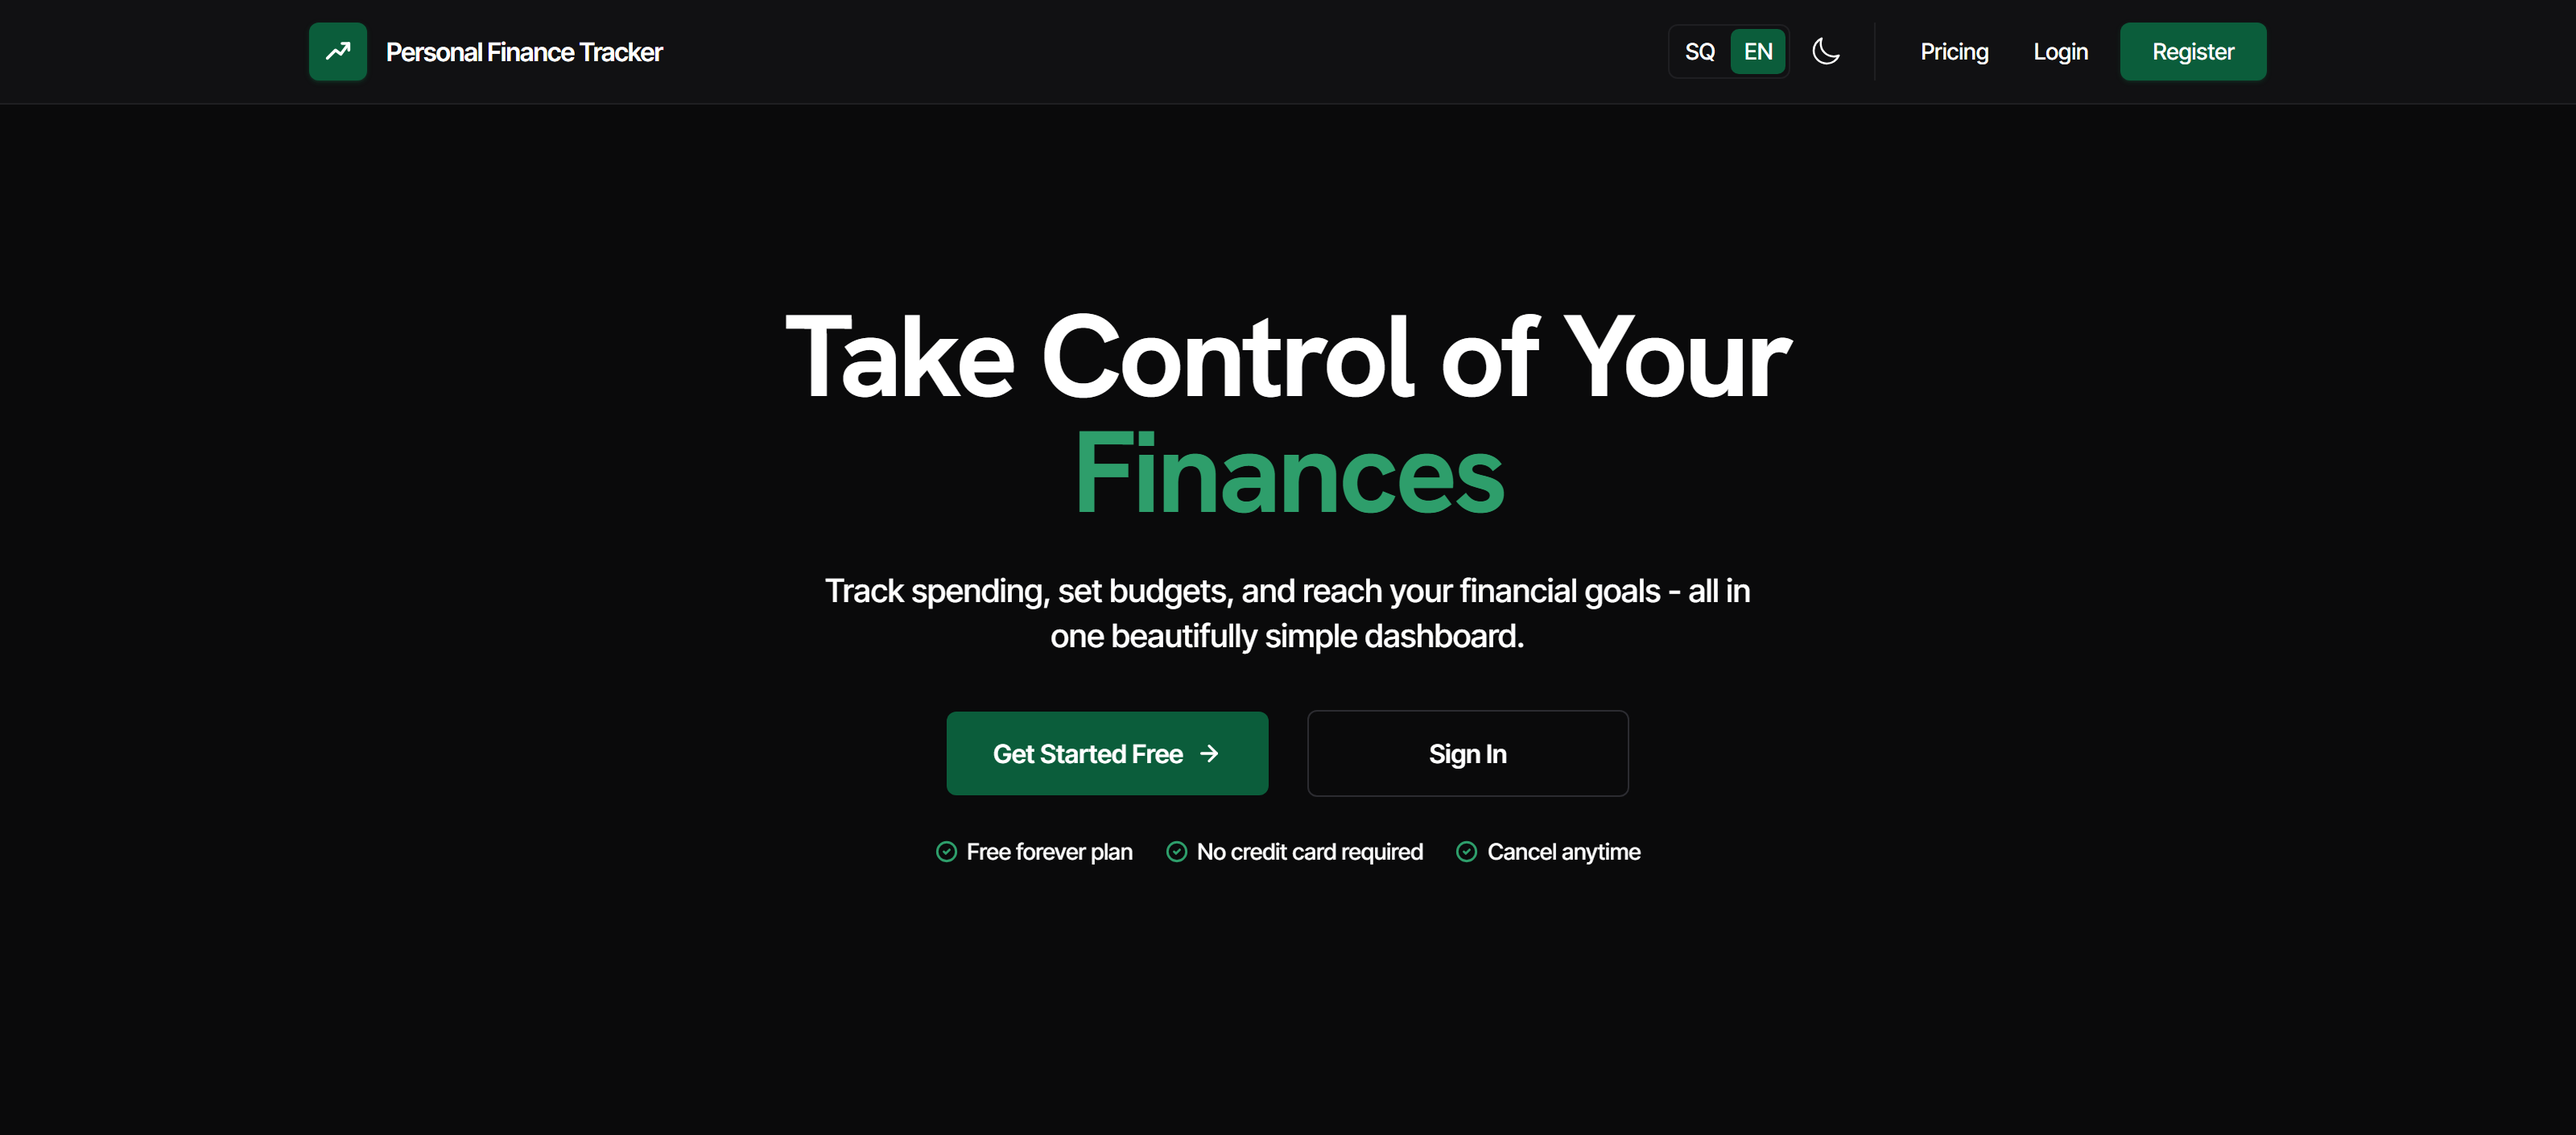
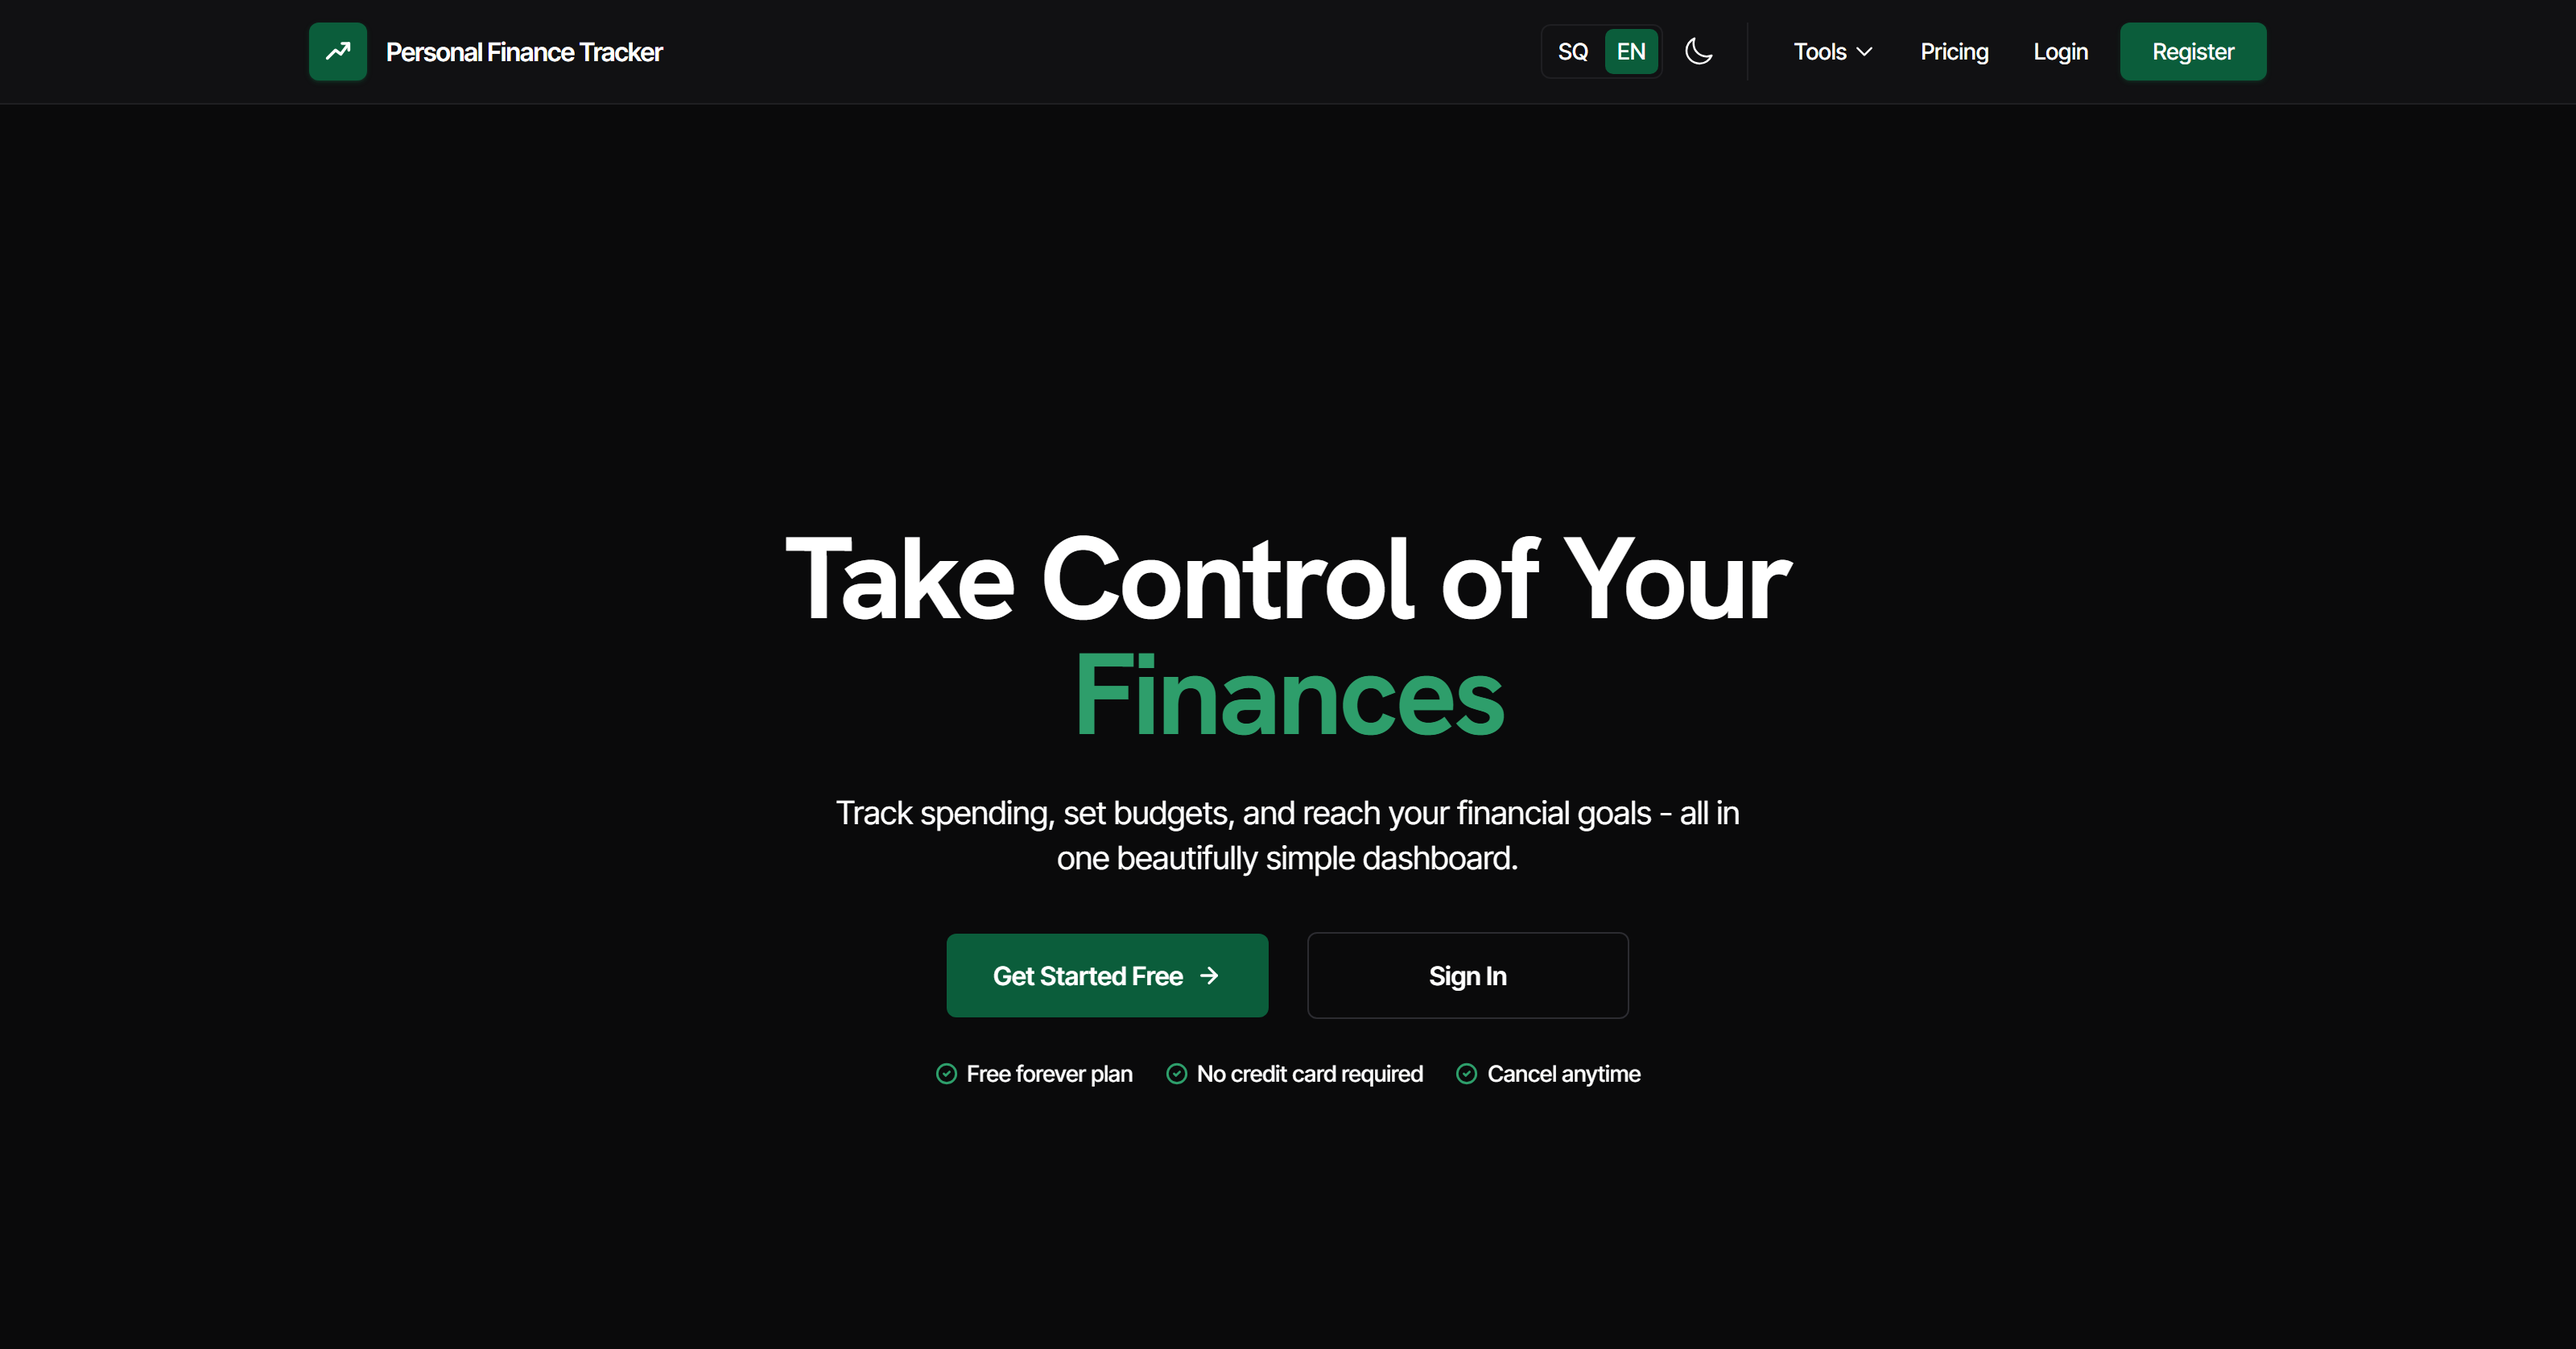
feat: update text styles for improved readability across LandingPage component

diff --git a/src/components/LandingPage.jsx b/src/components/LandingPage.jsx
@@ -174,7 +174,7 @@ function FeatureCard({ eyebrow, title, desc, preview, className = '', flip = fal
       <div className={`p-8 sm:p-10 flex flex-col justify-center ${flip ? 'lg:order-2' : ''}`}>
         <p className="text-[13px] font-medium text-ink-muted dark:text-white/70 mb-3">{eyebrow}</p>
         <h3 className="font-display text-2xl sm:text-3xl font-bold text-ink-primary dark:text-white leading-tight mb-4">{title}</h3>
-        <p className="text-base text-ink-muted dark:text-white leading-relaxed">{desc}</p>
+        <p className="text-base font-normal text-ink-secondary dark:text-white/70 leading-relaxed">{desc}</p>
       </div>
       <div className={`border-t lg:border-t-0 ${flip ? 'lg:order-1 lg:border-r' : 'lg:border-l'} border-surface-hairline dark:border-surface-dark-hairline bg-surface-page dark:bg-surface-dark-page p-8 flex flex-col justify-center`}>
         {preview}
@@ -223,7 +223,7 @@ function FaqItem({ q, a }) {
         }
       </button>
       {open && (
-        <p className="pb-5 text-base text-ink-muted dark:text-white leading-relaxed">{a}</p>
+        <p className="pb-5 text-base font-normal text-ink-secondary dark:text-white/70 leading-relaxed">{a}</p>
       )}
     </div>
   );
@@ -282,7 +282,7 @@ export default function LandingPage() {
             </h1>
 
             <p
-              className="animate-hero-in text-lg sm:text-xl text-ink-muted dark:text-white/80 leading-relaxed mb-8 max-w-xl mx-auto"
+              className="animate-hero-in text-lg sm:text-xl font-normal text-ink-secondary dark:text-white/70 leading-relaxed mb-8 max-w-xl mx-auto"
               style={{ animationDelay: '140ms' }}
             >
               {t('landing.hero.subtitle')}
@@ -486,7 +486,7 @@ function HowItWorksSection({ t }) {
                 <span className="text-brand-600 dark:text-brand-400 tabular-nums mr-2">{num}.</span>
                 {t(`landing.howItWorks.${key}.title`)}
               </h3>
-              <p className="text-base text-ink-muted dark:text-white leading-relaxed">
+              <p className="text-base font-normal text-ink-secondary dark:text-white/70 leading-relaxed">
                 {t(`landing.howItWorks.${key}.desc`)}
               </p>
             </div>
@@ -517,7 +517,7 @@ function PrivacySection({ t }) {
           <div className="lg:sticky lg:top-24">
             <Eyebrow>{t('landing.privacy.eyebrow')}</Eyebrow>
             <SectionHeading className="mb-5">{t('landing.privacy.title')}</SectionHeading>
-            <p className="text-base text-ink-muted dark:text-white leading-relaxed">
+            <p className="text-base font-normal text-ink-secondary dark:text-white/70 leading-relaxed">
               {t('landing.privacy.desc')}
             </p>
           </div>
@@ -665,7 +665,7 @@ function ToolsSection({ t }) {
       >
         <Eyebrow>{t('landing.tools.eyebrow')}</Eyebrow>
         <SectionHeading className="mb-5">{t('landing.tools.title')}</SectionHeading>
-        <p className="text-base text-ink-muted dark:text-white leading-relaxed mb-8 max-w-xl">
+        <p className="text-base font-normal text-ink-secondary dark:text-white/70 leading-relaxed mb-8 max-w-xl">
           {t('landing.tools.desc')}
         </p>
         {/* Maps over TOOLS so a new tool appears here with no edit to this file.
